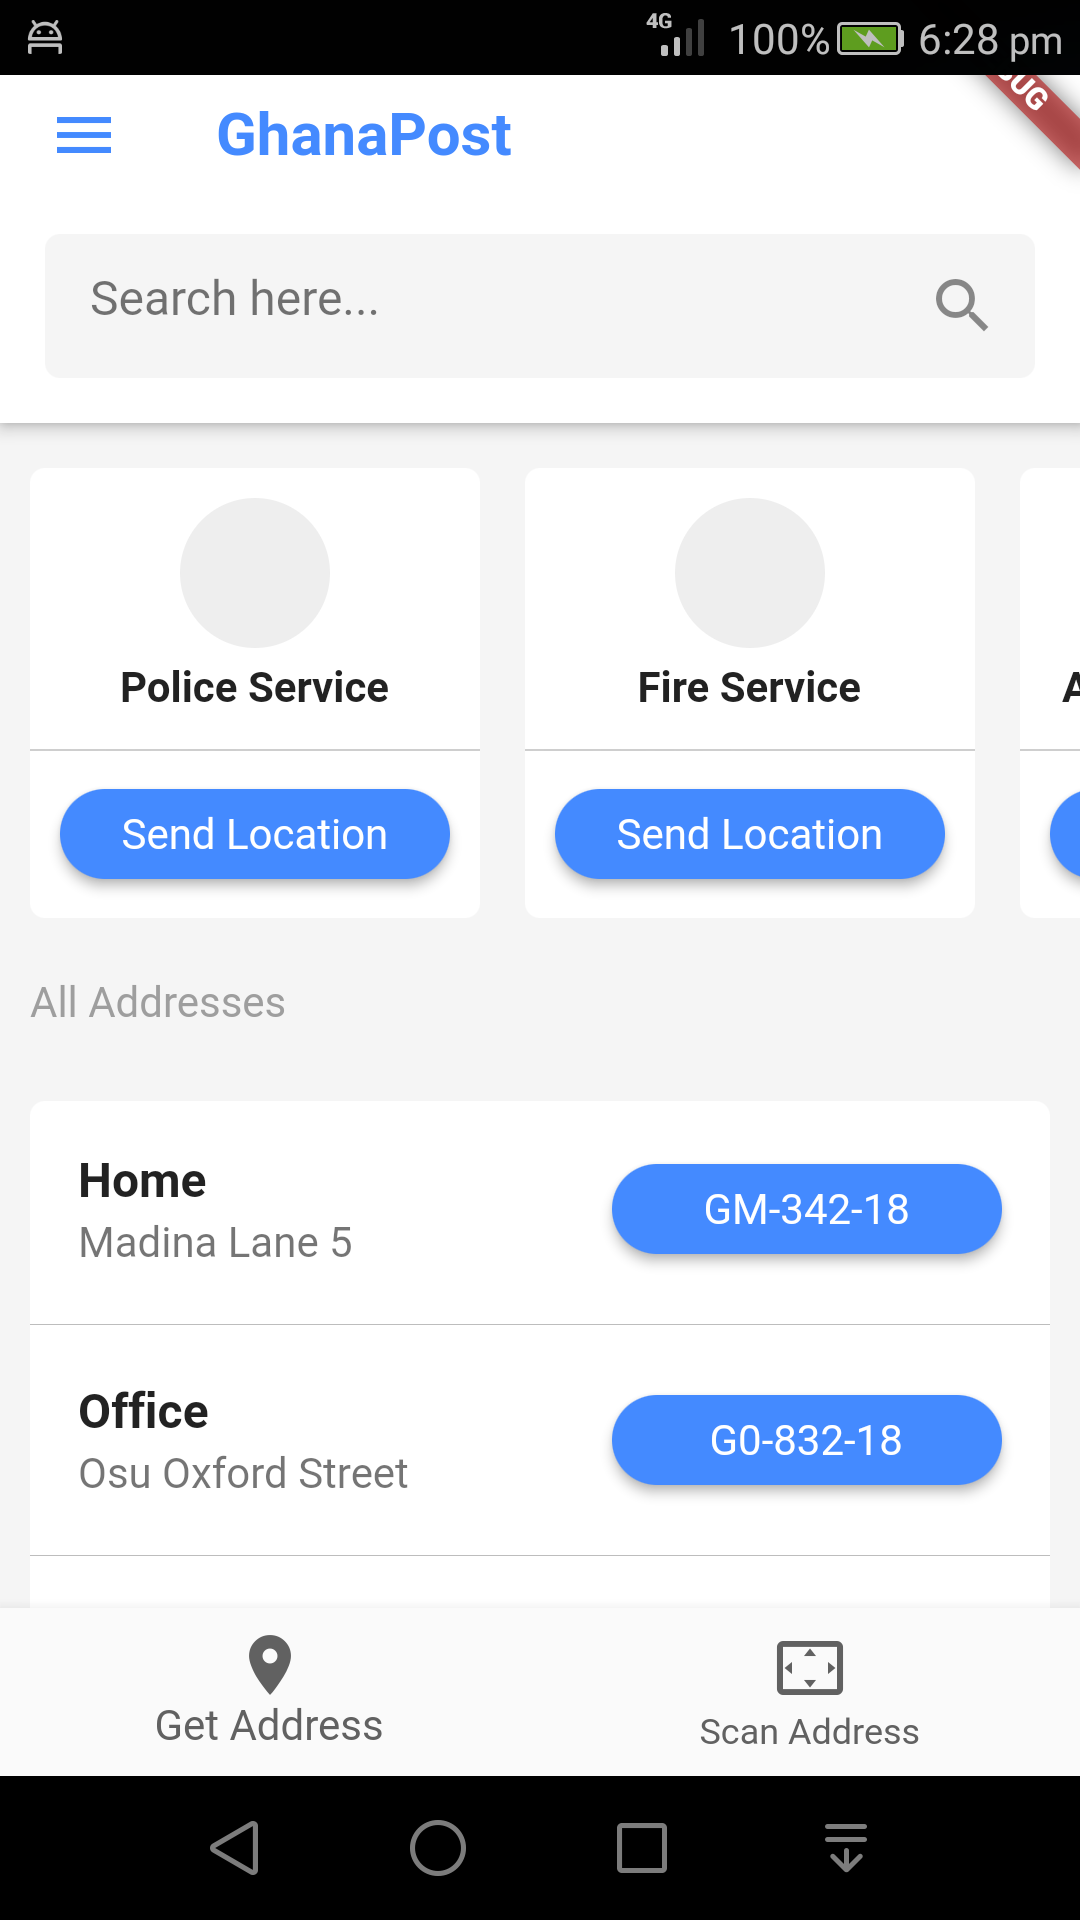
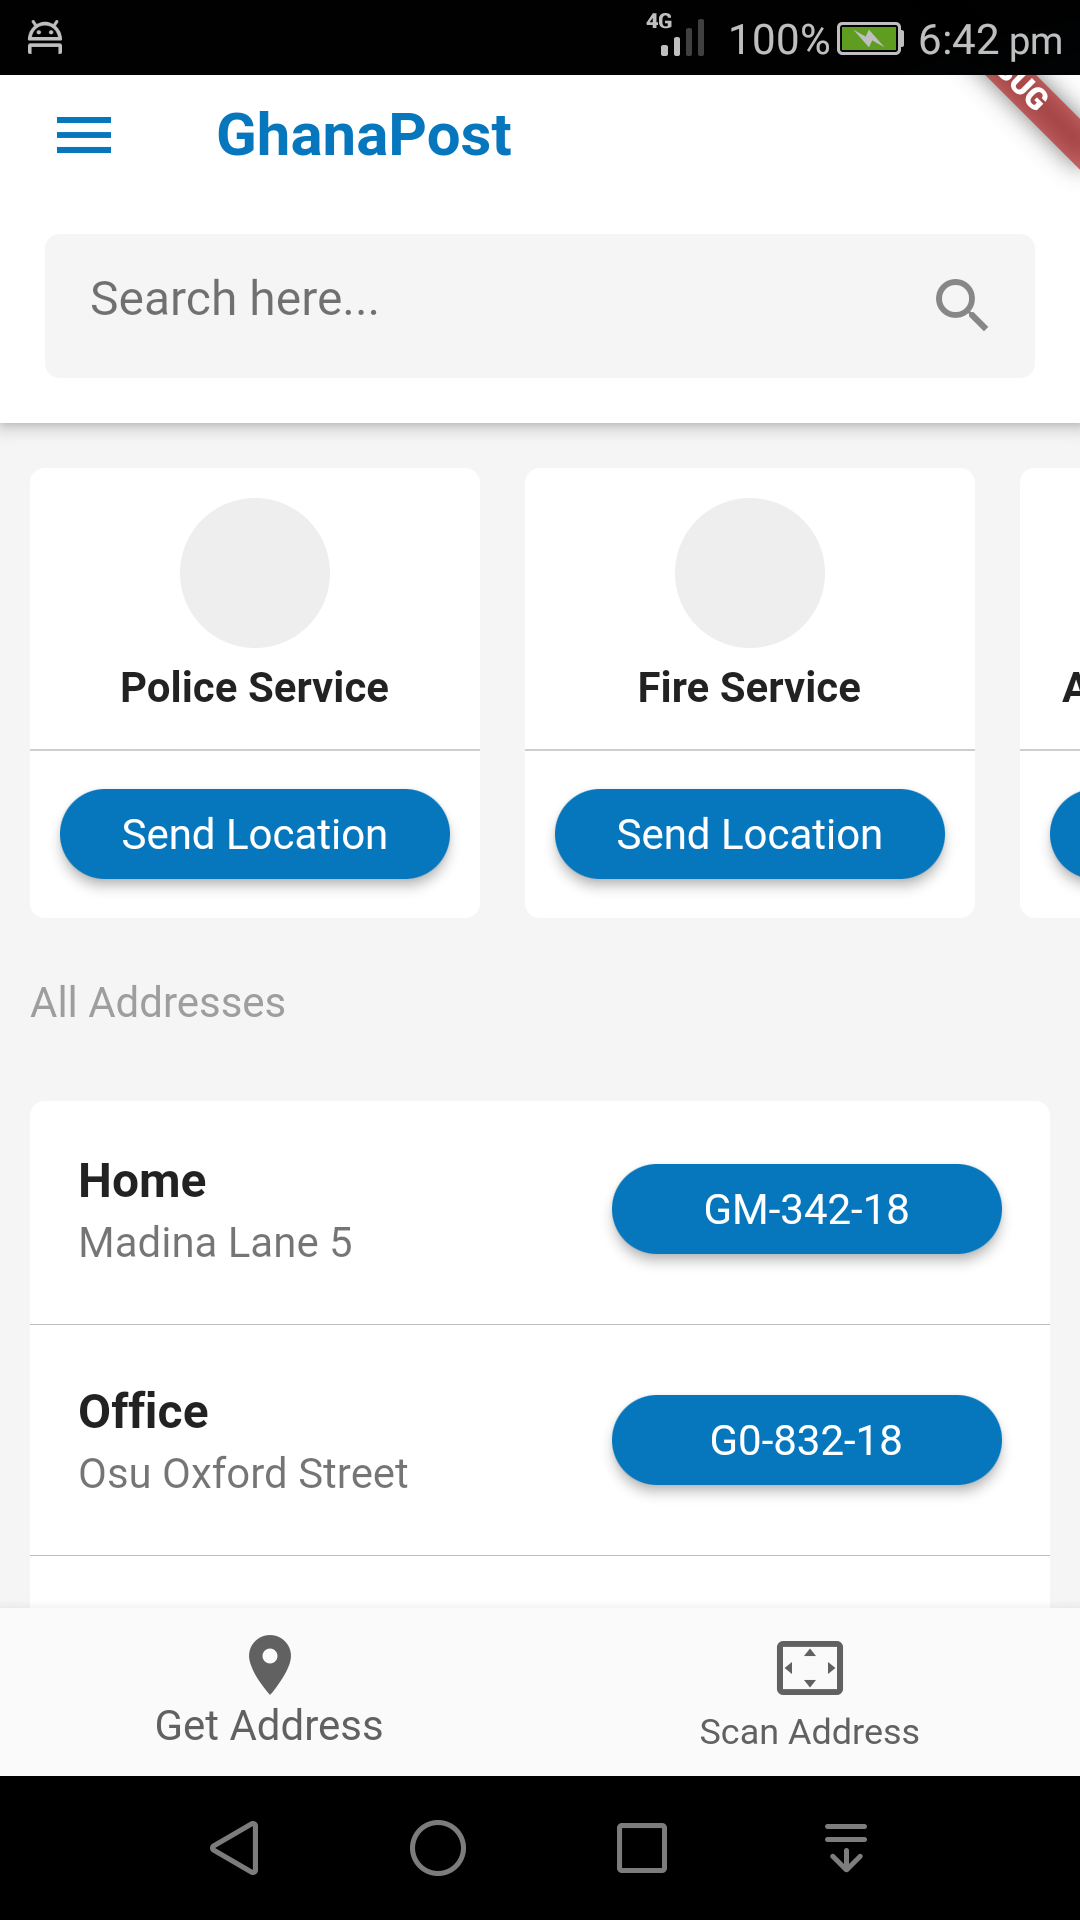
feat: updated screenshots

diff --git a/lib/home_page.dart b/lib/home_page.dart
@@ -7,6 +7,7 @@ class HomePage extends StatefulWidget {
 
 class _HomePageState extends State<HomePage> {
   TextEditingController _controller = TextEditingController();
+  Color _mainColor = Color(0xff0677BD);
 
   @override
   Widget build(BuildContext context) {
@@ -16,9 +17,9 @@ class _HomePageState extends State<HomePage> {
         title: Text(
           'GhanaPost',
           style:
-              TextStyle(color: Colors.blueAccent, fontWeight: FontWeight.bold),
+              TextStyle(color: _mainColor, fontWeight: FontWeight.bold),
         ),
-        iconTheme: IconThemeData(color: Colors.blueAccent),
+        iconTheme: IconThemeData(color: _mainColor),
         bottom: PreferredSize(
             child: Container(
               margin: EdgeInsets.all(15.0),
@@ -92,7 +93,7 @@ class _HomePageState extends State<HomePage> {
                             ),
                             InkWell(
                                 child: Material(
-                              color: Colors.blueAccent,
+                              color: _mainColor,
                               borderRadius: BorderRadius.circular(20.0),
                               elevation: 3.0,
                               child: Container(
@@ -152,7 +153,7 @@ class _HomePageState extends State<HomePage> {
                             ),
                             InkWell(
                                 child: Material(
-                              color: Colors.blueAccent,
+                              color: _mainColor,
                               borderRadius: BorderRadius.circular(20.0),
                               elevation: 3.0,
                               child: Container(
@@ -212,7 +213,7 @@ class _HomePageState extends State<HomePage> {
                             ),
                             InkWell(
                                 child: Material(
-                              color: Colors.blueAccent,
+                              color: _mainColor,
                               borderRadius: BorderRadius.circular(20.0),
                               elevation: 3.0,
                               child: Container(
@@ -260,7 +261,7 @@ class _HomePageState extends State<HomePage> {
                         subtitle: Text('Madina Lane 5'),
                         trailing: InkWell(
                             child: Material(
-                          color: Colors.blueAccent,
+                          color: _mainColor,
                           borderRadius: BorderRadius.circular(20.0),
                           elevation: 3.0,
                           child: Container(
@@ -289,7 +290,7 @@ class _HomePageState extends State<HomePage> {
                         subtitle: Text('Osu Oxford Street'),
                         trailing: InkWell(
                             child: Material(
-                          color: Colors.blueAccent,
+                          color: _mainColor,
                           borderRadius: BorderRadius.circular(20.0),
                           elevation: 3.0,
                           child: Container(
@@ -318,7 +319,7 @@ class _HomePageState extends State<HomePage> {
                         subtitle: Text('Saltpond'),
                         trailing: InkWell(
                             child: Material(
-                          color: Colors.blueAccent,
+                          color: _mainColor,
                           borderRadius: BorderRadius.circular(20.0),
                           elevation: 3.0,
                           child: Container(
@@ -348,7 +349,7 @@ class _HomePageState extends State<HomePage> {
                             Text('ICGC Holy Ghost Temple, Adenta Fafraha'),
                         trailing: InkWell(
                             child: Material(
-                          color: Colors.blueAccent,
+                          color: _mainColor,
                           borderRadius: BorderRadius.circular(20.0),
                           elevation: 4.0,
                           child: Container(
@@ -377,7 +378,7 @@ class _HomePageState extends State<HomePage> {
                         subtitle: Text('Koforidua, galaway'),
                         trailing: InkWell(
                             child: Material(
-                          color: Colors.blueAccent,
+                          color: _mainColor,
                           borderRadius: BorderRadius.circular(20.0),
                           elevation: 4.0,
                           child: Container(
